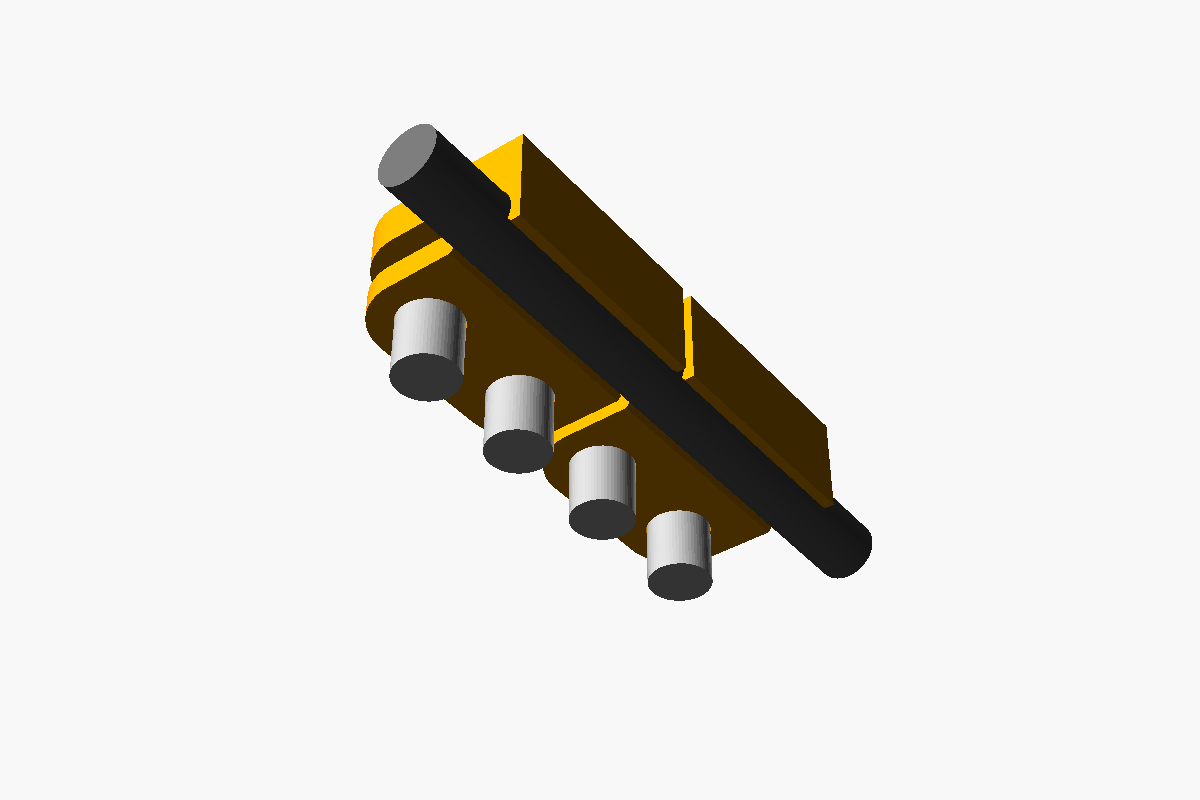
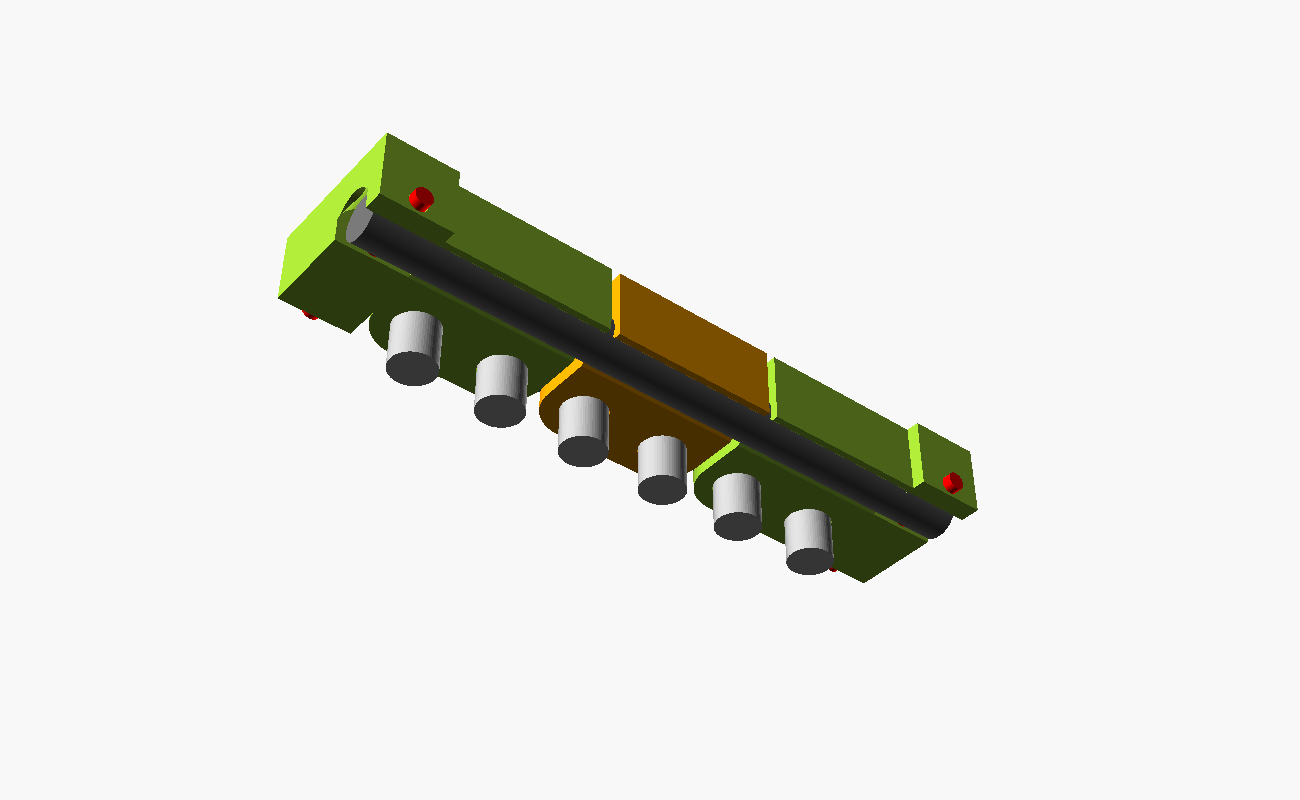
Add end link with pin fork so the lock tube swings in as an arm
Claude-Session: https://claude.ai/code/session_011cUnhzAFGP7E1nGHqXwy9v

Changed region(s): [[0.2158, 0.1562, 0.7708, 0.75]]

diff --git a/README.md b/README.md
@@ -13,7 +13,7 @@
 | Част | Размер | Бр. |
 |---|---|---|
 | Лайсни (плот) | Ø10 × 700 мм, неотрязани | 26 |
-| Заключващи пръти (swing) | Ø10 × 510 мм | 2 |
+| Заключващи пръти (рамо) | Ø10 × 546 мм, 2 дупки Ø4 на 534 мм една от друга | 2 |
 | Разпънка между пивотите | Ø10 × 645 мм | 1 |
 | Крака | Ø15 × 650 мм | 4 |
 
